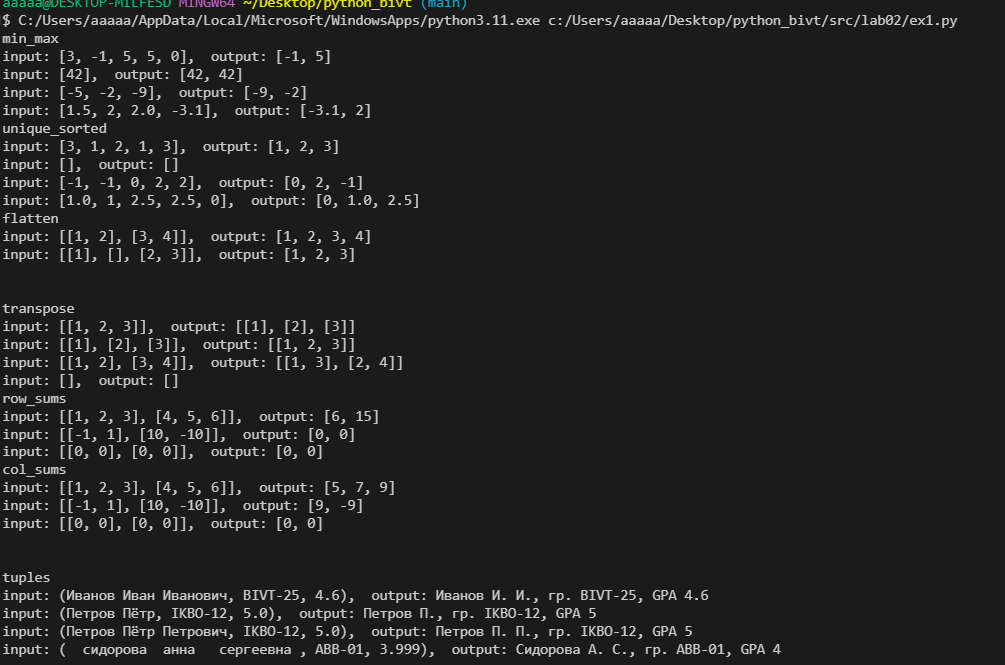
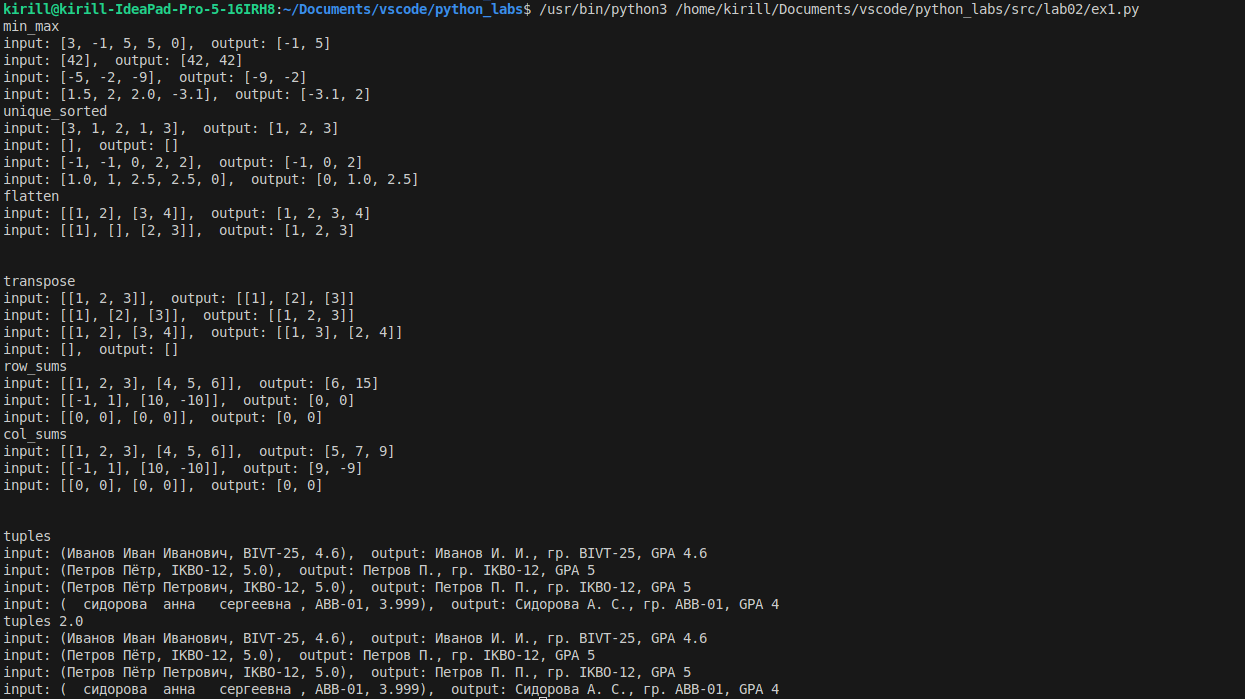
Udpated tuplePY & tuples

Changed region(s): [[0.0, 0.0, 0.9562, 1.0]]

diff --git a/src/lab02/ex1.js b/src/lab02/ex1.js
@@ -53,3 +53,10 @@ console.log(`input: ("Иванов Иван Иванович", "BIVT-25", 4.6), 
 console.log(`input: ("Петров Пётр", "IKBO-12", 5.0),  output: ${new tuple.Tuple("Петров Пётр", "IKBO-12", 5.0).format_record()}`);
 console.log(`input: ("Петров Пётр Петрович", "IKBO-12", 5.0),  output: ${new tuple.Tuple("Петров Пётр Петрович", "IKBO-12", 5.0).format_record()}`);
 console.log(`input: ("  сидорова  анна   сергеевна ", "ABB-01", 3.999),  output: ${new tuple.Tuple("  сидорова  анна   сергеевна ", "ABB-01", 3.999).format_record()}`);
+
+//Tuples 2.0
+console.log("tuples 2.0")
+console.log(`input: ("Иванов Иван Иванович", "BIVT-25", 4.6),  output: ${tuple.format_record(["Иванов Иван Иванович", "BIVT-25", 4.6])}`);
+console.log(`input: ("Петров Пётр", "IKBO-12", 5.0),  output: ${tuple.format_record(["Петров Пётр", "IKBO-12", 5.0])}`);
+console.log(`input: ("Петров Пётр Петрович", "IKBO-12", 5.0),  output: ${tuple.format_record(["Петров Пётр Петрович", "IKBO-12", 5.0])}`);
+console.log(`input: ("  сидорова  анна   сергеевна ", "ABB-01", 3.999),  output: ${tuple.format_record(["  сидорова  анна   сергеевна ", "ABB-01", 3.999])}`);

diff --git a/src/lab02/libs/tuples.js b/src/lab02/libs/tuples.js
@@ -35,8 +35,15 @@ export class Tuple {
         }
         else
             var a = secondName + " " + firstNameShort + ".";
-        return `${a}, гр. ${this.group}, GPA ${this.gpa}`
+        return `${a}, гр. ${this.group}, GPA ${this.gpa}`;
     }
 
+
+}
+
+export function format_record(array)
+{
+    if (!Array.isArray(array) || !array.length === 3) throw new TypeError("Wrong data!");
+    return  new Tuple(array[0], array[1], array[2]).format_record()
 
 }

diff --git a/src/lab01/ex2.js b/src/lab01/ex2.js
@@ -1,4 +1,4 @@
 const prompt = require('prompt-sync')(); // requires 'npm install prompt-sync'
 var a = parseInt(prompt('a: '));
-var b = parseInt(prompt('b: '));
+var b = parseInt(prompt('bck: '));
 console.log(`sum=${a+b}; avg=${(a+b)/2}`)

diff --git a/src/lab02/ex1.py b/src/lab02/ex1.py
@@ -5,6 +5,7 @@ from libs.matrixes import transpose
 from libs.matrixes import row_sums
 from libs.matrixes import col_sums
 from libs.tuples import Tuple
+from libs.tuples import format_record
 
 # Arrays
 # min_max
@@ -58,4 +59,15 @@ print(f"input: (Петров Пётр, IKBO-12, 5.0),  output: {a}")
 a = Tuple("Петров Пётр Петрович", "IKBO-12", 5.0).format_record()
 print(f"input: (Петров Пётр Петрович, IKBO-12, 5.0),  output: {a}")
 a = Tuple("  сидорова  анна   сергеевна ", "ABB-01", 3.999).format_record()
+print(f"input: (  сидорова  анна   сергеевна , ABB-01, 3.999),  output: {a}")
+
+#Tuples 2.0
+print("tuples 2.0 ")
+a = format_record(("Иванов Иван Иванович", "BIVT-25", 4.6))
+print(f"input: (Иванов Иван Иванович, BIVT-25, 4.6),  output: {a}")
+a = format_record(("Петров Пётр", "IKBO-12", 5.0))
+print(f"input: (Петров Пётр, IKBO-12, 5.0),  output: {a}")
+a = format_record(("Петров Пётр Петрович", "IKBO-12", 5.0))
+print(f"input: (Петров Пётр Петрович, IKBO-12, 5.0),  output: {a}")
+a = format_record(("  сидорова  анна   сергеевна ", "ABB-01", 3.999))
 print(f"input: (  сидорова  анна   сергеевна , ABB-01, 3.999),  output: {a}")

diff --git a/src/lab02/libs/tuples.py b/src/lab02/libs/tuples.py
@@ -25,3 +25,25 @@ class Tuple:
         else:
             a = f"{second_name} {first_name_short}."
         return f"{a}, гр. {self.group}, GPA {self.gpa}"
+    
+
+def format_record(rec: tuple[str, str, float]) -> str:
+    fio = list(dict.fromkeys(rec[0].split(' ')))
+    if '' in fio:
+        fio.remove('')
+    fio = [name.capitalize() for name in fio]
+    
+    # group
+    group = rec[1].replace(" ", "")
+    
+    # gpa
+    gpa = format(rec[2], '.3g')
+
+    second_name = fio[0]
+    first_name_short = fio[1][0]
+    if len(fio) == 3:
+        third_name_short = fio[2][0]
+        a = f"{second_name} {first_name_short}. {third_name_short}."
+    else:
+        a = f"{second_name} {first_name_short}."
+    return f"{a}, гр. {group}, GPA {gpa}"
